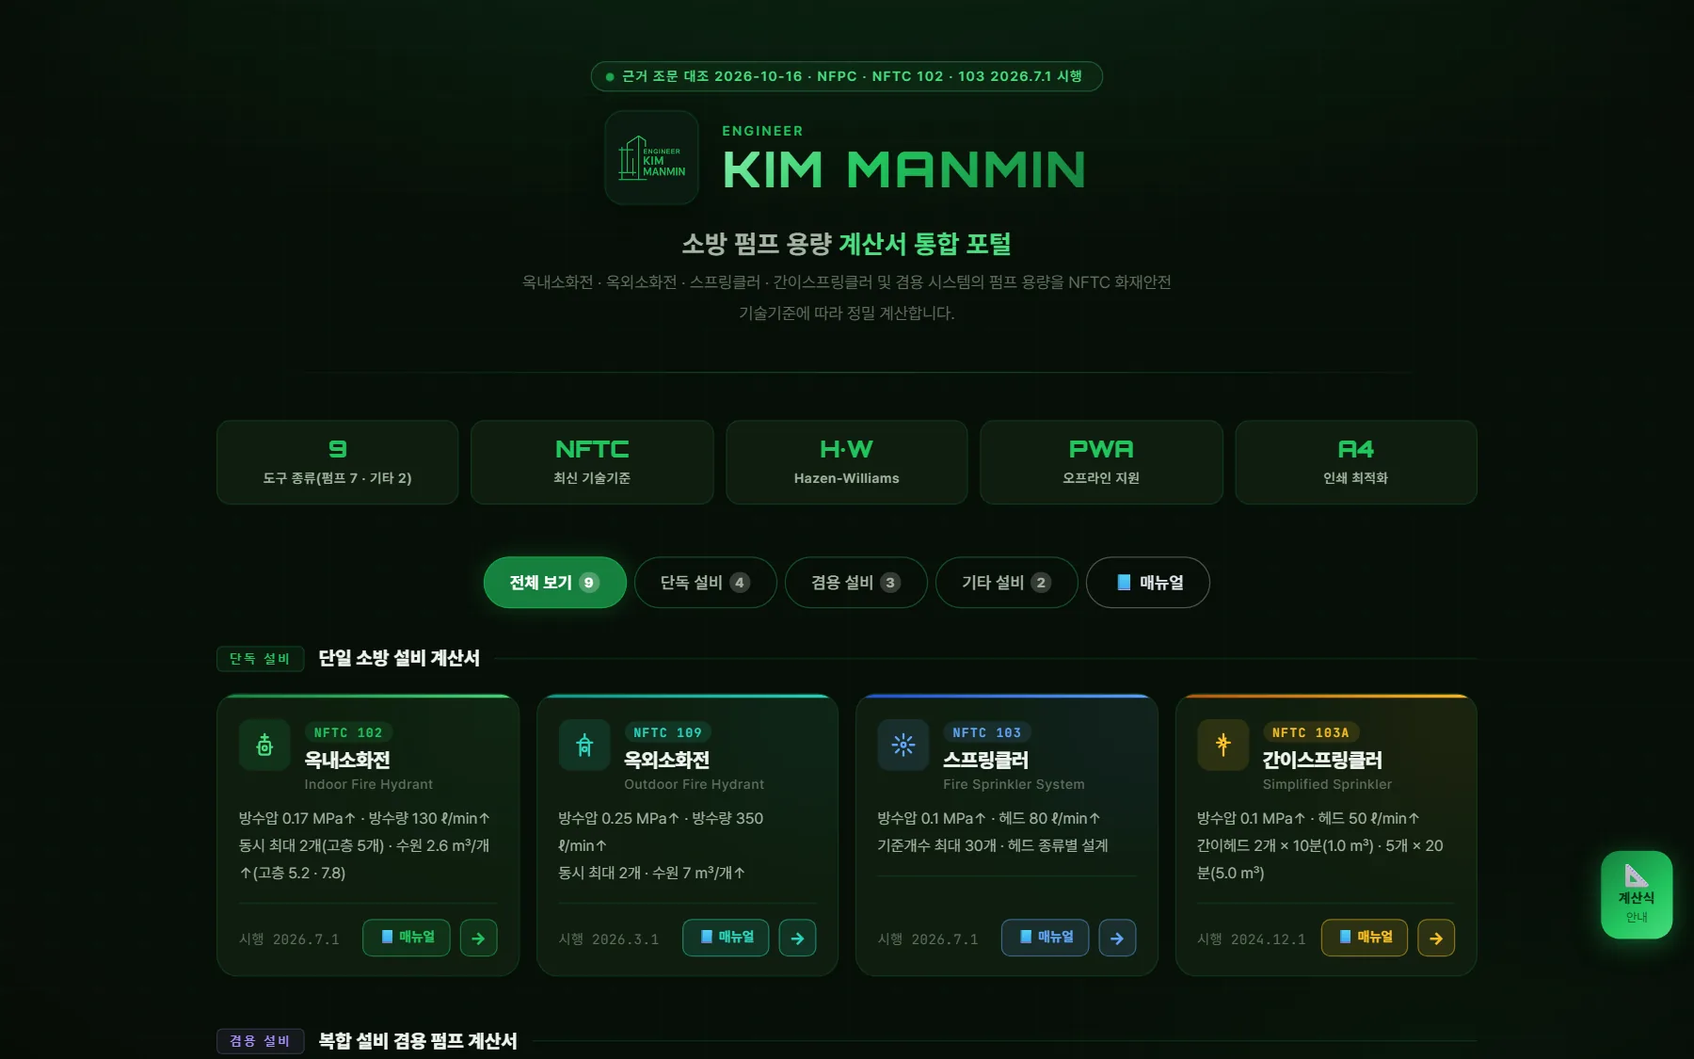
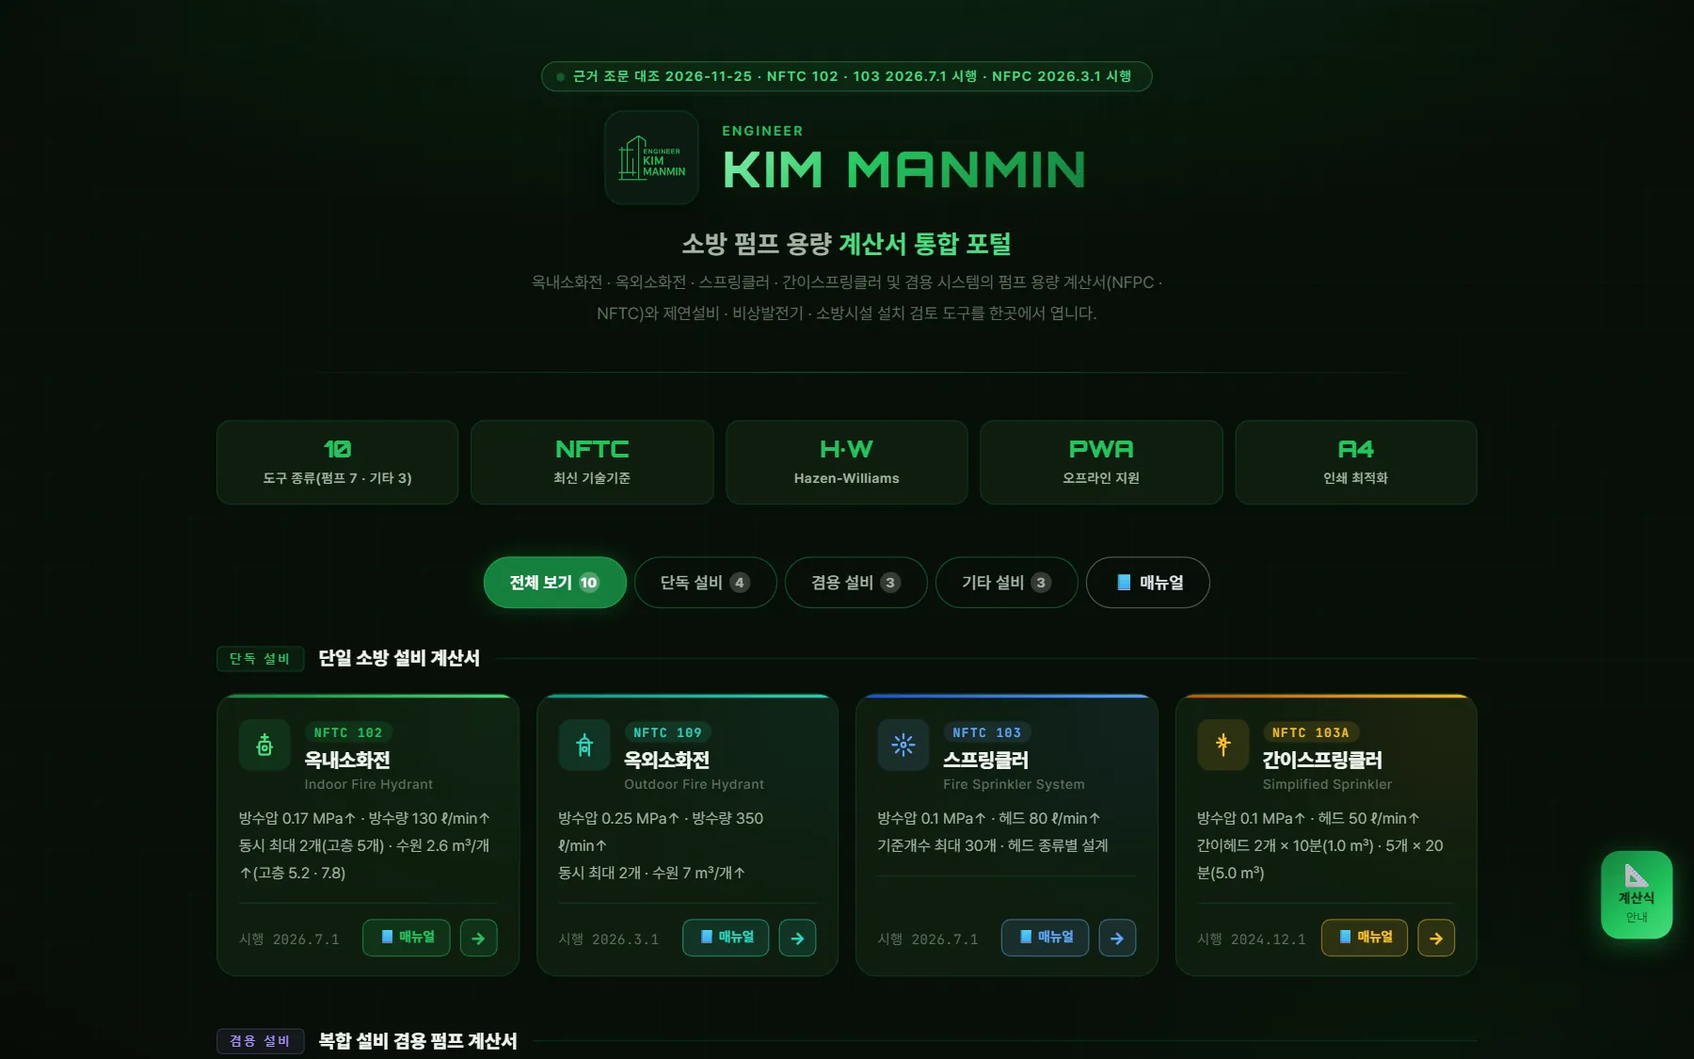
v3.34: 소방 포털 카드 화면 이미지 재촬영(카드 10장 · v5.2.15) · 52 지내력 카드 Ver 6.1.1 (§25-6-115)

Changed region(s): [[0.3111, 0.2489, 0.6844, 0.3111], [0.3111, 0.0622, 0.6844, 0.0933], [0.1867, 0.4044, 0.2178, 0.4356]]

diff --git a/sw.js b/sw.js
@@ -3,7 +3,7 @@
    김만민 건축사 — 대성건축사사무소
    ══════════════════════════════════════════════════════ */
 
-const CACHE_VERSION = 'manmin-v3.33';   /* 2026-11-25 카드 판 소방 포털 5.2.15 · 01 옥내소화전 6.1.4 · 10 비상발전기 6.1.8(기록 누락 정리, §25-6-113) (종전 v3.32) */     /* 2026-11-25 카드 판 35 6.1.5 · 32 6.1.4 · 48 6.1.4 · 33 6.1.6 · 46 6.1.4 · 52 6.1.0(11-22 교차검증 반영분 기록 누락 정리, 건축 4차 §25-6-112) (종전 v3.31) */     /* 2026-11-24 카드 판 30 6.1.5 · 34 6.1.5 · 50 6.1.4(건축 3차 교차검증(2026-11-24, A 등급) 반영, §25-6-111) (종전 v3.30) */     /* 2026-11-24 카드 판 36 6.1.4 · 39 6.1.5 · 31 6.1.6(건축 2차 교차검증(2026-11-24, A 등급) 반영, §25-6-110) (종전 v3.29) */     /* 2026-11-24 카드 판 38 · 43 6.1.4 · 40 6.1.5(건축 1차 교차검증(2026-11-24, A 등급) 반영, §25-6-109) (종전 v3.28) */     /* 2026-11-24 카드 판 44 허가조서 6.1.23(건축법 제61조 개정 메모 · A-09 첫 A 등급 교차검증 · 매뉴얼 v6.1.23, §25-6-108) (종전 v3.27) */     /* 2026-11-24 카드 판 20 · 21 · 22 6.1.7 · 23 · 24 · 27 6.1.6 · 25 6.1.5 · 26 6.1.10(기계 판단 항목 결정(2026-11-24) 반영, §25-6-107) (종전 v3.26) */     /* 2026-11-24 카드 판 23 덕트 6.1.5 · 27 부하 6.1.5 · 28 포털 1.0.23(기계 3차 교차검증(2026-11-24) 반영, §25-6-106) (종전 v3.25) */     /* 2026-11-24 카드 판 25 급탕 6.1.4 · 24 펌프 6.1.5 · 22 냉온수 6.1.6(기계 2차 교차검증(2026-11-24) 반영, §25-6-105) (종전 v3.24) */     /* 2026-11-24 카드 판 26 환기 6.1.9 · 20 우수 6.1.6 · 21 위생 6.1.6(기계 1차 교차검증(2026-11-24) 반영, §25-6-104) (종전 v3.23) */     /* 2026-11-24 카드 판 09 제연 6.1.6(교차검증 판단 필요 3건 추천안 반영, §25-6-103) (종전 v3.22) */     /* 2026-11-24 카드 판 02~07 6.1.4 · 09 제연 6.1.5 · 10 비상발전기 6.1.7 · 11 소방시설 6.1.6(교차검증 권장 · 권고 반영, §25-6-102) (종전 v3.21) */     /* 2026-11-24 카드 판 02 옥외 · 03 스프링클러 · 04 간이 · 05 · 06 · 07 겸용 6.1.3 · 09 제연 6.1.4 · 10 비상발전기 6.1.6 · 11 소방시설 6.1.5 · 소방 포털 5.2.14(소방 전수조사 교차검증 반영, §25-6-101) (종전 v3.20) */     /* 2026-11-23 카드 판 51 토목옹벽 6.1.4 · 구조·토목 포털 1.0.21(교차검증 반영 — 입력 검증 판정 보류 · 캔틸레버 뒷굽 상재하중 저항 제외 · 앵커 조항 1.8, §25-6-100) (종전 v3.19) */     /* 2026-11-20 카드 판 32 해체감리 6.1.3 · 33 상주감리 6.1.5 · 48 안전대가 6.1.3(노임 적용연도 선택 · 매뉴얼 Ver-6.1, §25-6-98) (종전 v3.18) */     /* 2026-11-20 카드 판 44 허가조서 6.1.22(PDF 읽기 보강 · 매뉴얼 개정, §25-6-97) (종전 v3.17) */     /* 2026-11-19 카드 판 35 용도변경 6.1.4 · 44 허가조서 6.1.19(기록 누락 정리 · §25-6-96) (종전 v3.16) */   /* 2026-11-14 웹 소개 카드 화면 이미지 8장 재촬영(44 허가조서 · 26 환기 · 20 우수 · 10 발전기 · 기계 · 구조토목 · 소방 포털 · 법규검토 10월호) (종전 v3.15) */     /* v3.15 2026-11-14 웹 소개 카드 판 표기 최신화 — 포털 4장 세 자리(건축 1.0.31 · 기계 1.0.22 · 구조토목 1.0.20 · 소방 5.2.13) · 제목 · wdate 두 자리 Ver 6.1 체계(36장) (종전 v3.14) */     /* v3.14 2026-11-14 카드 판 44 허가조서 6.1.18(한국건축규정 적용 고시 날짜별 표기, §25-6-93) (종전 v3.13) */     /* 2026-11-13 카드 판 44 허가조서 6.1.17(1112 대조 개선 · 세부 호 자동 선택 · 매뉴얼 개정, §25-6-92) (종전 v3.12) */     /* 2026-11-13 카드 판 44 허가조서 6.1.16(자동 선판정 전체 항목 · 매뉴얼 개정, §25-6-91) (종전 v3.11) */     /* 2026-11-13 카드 판 44 허가조서 6.1.12(조례 별표 9곳 · 천안 건폐율 · 용적률, §25-6-90) (종전 v3.10) */     /* 2026-11-13 카드 판 44 허가조서 6.1.11(html2canvas SRI, §25-6-89) (종전 v3.09) */     /* 2026-11-13 카드 판 44 허가조서 6.1.10(전남 · 충남 조례 51곳, §25-6-88) (종전 v3.08) */     /* 2026-11-12 카드 판 34종 한 단계씩(html2canvas SRI, 정밀검토 B8 · §25-6-87) (종전 v3.07) */   /* 2026-11-12 카드 판 26 환기 6.1.7(KDS 4.4(3) 다중 구역, 정밀검토 KDS 4.4(3) 다중 구역 · §25-6-84) (종전 v3.06) */   /* 2026-11-12 카드 판 2종(26 · 10 — KDS 남은 2건, 정밀검토 KDS 남은 2건 · §25-6-83) (종전 v3.05) */   /* 2026-11-12 카드 판 35종 한 단계씩(CDN 판 통일 · SRI, 정밀검토 C2 · §25-6-82) (종전 v3.04) */   /* 2026-11-12 카드 판 5종(20 · 10 · 26 · 21 · 24 — KDS 원문 대조, 정밀검토 B12 · §25-6-81) (종전 v3.03) */   /* 2026-11-12 카드 판 31종(건물개요 원본 v1.3 · 글꼴 정리) · 키 없이 불러오던 카카오 SDK 제거(정밀검토 C10 · C4 · §25-6-80 · C5) (종전 v3.02) */   /* 2026-11-12 카드 판 14종 — 화면 확대 허용 · 키보드 조작 6종 · 입력값 경고 표시 8종(정밀검토 B17 · B10 · §25-6-78 · 79) (종전 v3.01) */   /* 2026-11-12 카드 판 15종 — 건물개요 공통 원본 v1.2 맞춤 8종 · 새로 넣은 7종(정밀검토 B5 · B6 · §25-6-76 · 77) (종전 v3.00) */   /* 2026-11-12 메타 문구(도구 36종 · 포털 4종) · 경력 자동 계산(11,545일 · 2026-08-15 기준) · 구조화 데이터 주소 전북특별자치도 · sitemap.xml · 카드 판 편의시설 6.1.1 · 성능지표 · 소방시설 · 해체감리 · 안전대가 · 열관류율 6.1.0(정밀검토 B14 · B15 · §25-6-75) (종전 v2.99) */   /* 2026-11-12 카드 Ver 6.1.0 — 냉온수 · 공조덕트 · 부하계산(RTS) · 주차장(기준 표기 정리, 정밀검토 B13 · §25-6-74) (종전 v2.98) */   /* 2026-11-12 지내력 카드 Ver 1.1.2(2026-11-10 배포분 기록, 정밀검토 B1 · §25-6-73) (종전 v2.97) */   /* 2026-11-12 허가조서 카드 Ver 6.1.2(한국건축규정 고시 제2026-360호 병기, §25-6-71) (종전 v2.96) */   /* 2026-11-12 신규 카드: 건축허가조사 및 검사조서 Ver 6.1(허브 A-14 · 쇼츠 · 롱폼 · 매뉴얼) · 건축 통합 포털 13종 Ver 1.0.18 · 환기설비 · 설계하중 6.1.0 · 기계 포털 1.0.13 · 구조·토목 포털 1.0.16 · 링크 미리보기 37종(§25-6-70) (종전 v2.95) */   /* 2026-11-11 카드 Ver — 건축 통합포털 1.0.17 · 구조·토목 통합포털 1.0.15(도구 카드 판 6.1 · 근거표 시행일, §25-6-69) (종전 v2.94) */   /* 2026-11-11 카드 Ver — 일조사선 · 용도변경 · 내진성능 · 편의시설 6.1.0(개정 메모 · 판 6.1, §25-6-68) · 건축 통합포털 1.0.16 정정 (종전 v2.93) */   /* 2026-11-11 포트폴리오 PDF — 소개(건축과 설비를 아우르는 …) 섹션 새 쪽 시작 · 한 쪽 통째(MM-PRINT 홈피판 v1.2, 42 → 43쪽)(§25-6-67) (종전 v2.92) */     /* 2026-11-11 포트폴리오 PDF A4 고밀도 배치 MM-PRINT 홈피판 v1.1(인쇄 글자 80% · 데스크톱 열 수 · 개발웹 카드 좌우 배치 쪽당 2장 · 유튜브 3열 설명 전문 · 75 → 42쪽)(§25-6-66) (종전 v2.91) */     /* 2026-11-10 포트폴리오 PDF A4 인쇄 보정 MM-PRINT 홈피판 v1.0(빈 쪽 · 외톨이 쪽 · 화면 단추 제외 · 남색 전면 · 쪽 번호 n / N · 저장 이름)(§25-6-65) (종전 v2.90) */     /* 2026-11-10 GitHub 아이콘 SVG 경로 잘림 2곳 정정(환기설비 · 건축선 카드 — 콘솔 오류 해소) · 구조·토목 통합 포털 Ver 1.0.14(사용자 매뉴얼 Ver-1.1)(§25-6-64) (종전 v2.89) */   /* 2026-11-10 지내력 카드 Ver 1.1.0(지반조사 보고서 PDF 불러오기 · 공별 지하수위 · 사용자 매뉴얼 Ver-1.1) · 구조·토목 통합 포털 Ver 1.0.13(§25-6-63) (종전 v2.88) */   /* 2026-11-09 신규 카드: N값 지내력 환산 v1.0.1 · 허브 C-03 · YouTube 쇼츠 · 롱폼 · 매뉴얼 단추 · 구조·토목 통합 포털 Ver 1.0.12(5종) · 링크 미리보기 웹 계산 도구 36종(§25-6-62) (종전 v2.87) */   /* 2026-11-09 편의시설 카드 화면 배지 Ver 1.2.2(A4 인쇄 서명란 최하단 보완)(§25-6-61) (종전 v2.86) */   /* 2026-11-09 건축 통합 포털 카드 Ver 1.0.15(사용자 매뉴얼 Ver-1.1 · 계산서 12종)(§25-6-60) (종전 v2.85) */   /* 2026-11-09 건축 시리즈 요약 배너 Released · Manual 12→14(계산서 12 · 법규검토 · 통합 포털) (종전 v2.84) */   /* 2026-11-09 편의시설 Ver 1.2(증축 적용 범위 · 사용자 매뉴얼) 카드 · YouTube 쇼츠 · 롱폼 · 매뉴얼 단추 · 건축 통합 포털 Ver 1.0.14(§25-6-59) (종전 v2.83) */   /* 2026-11-09 편의시설 Ver 1.1(세부기준 그림 18) · 건축 통합 포털 Ver 1.0.13 카드 숫자(인허가 5종 · 12종) · 링크 미리보기 웹 계산 도구 35종(§25-6-57) (종전 v2.82) */   /* 2026-11-09 신규 카드: 장애인 편의시설 설치기준 검토 v1.0.0 · 허브 A-13 · 건축 통합 포털 12종(§25-6-56) (종전 v2.81) */   /* 2026-11-09 안전점검등 대가 카드 YouTube 쇼츠 · 롱폼 단추 · 건축 통합 포털 카드 11종(§25-6-55) (종전 v2.80) */ /* 2026-11-09 안전점검등 대가 카드 Ver 1.0.4 · 사용자 매뉴얼 버튼(§25-6-54) (종전 v2.79) */   /* 2026-11-09 안전점검등 대가 카드 Ver 1.0.3 · 설치안내 공유판 안전대가 추가(§25-6-53) (종전 v2.78) */ /* 2026-11-09 신규 카드: 안전점검등 대가 산출기(건축물) v1.0.2 · 해체감리 시리즈 뒤(§25-6-53) (종전 v2.77) */
+const CACHE_VERSION = 'manmin-v3.34';   /* 2026-11-25 소방 포털 카드 화면 이미지 재촬영(카드 10장 · v5.2.15) · 52 지내력 카드 6.1.1(§25-6-115) (종전 v3.33) */     /* 2026-11-25 카드 판 소방 포털 5.2.15 · 01 옥내소화전 6.1.4 · 10 비상발전기 6.1.8(기록 누락 정리, §25-6-113) (종전 v3.32) */     /* 2026-11-25 카드 판 35 6.1.5 · 32 6.1.4 · 48 6.1.4 · 33 6.1.6 · 46 6.1.4 · 52 6.1.0(11-22 교차검증 반영분 기록 누락 정리, 건축 4차 §25-6-112) (종전 v3.31) */     /* 2026-11-24 카드 판 30 6.1.5 · 34 6.1.5 · 50 6.1.4(건축 3차 교차검증(2026-11-24, A 등급) 반영, §25-6-111) (종전 v3.30) */     /* 2026-11-24 카드 판 36 6.1.4 · 39 6.1.5 · 31 6.1.6(건축 2차 교차검증(2026-11-24, A 등급) 반영, §25-6-110) (종전 v3.29) */     /* 2026-11-24 카드 판 38 · 43 6.1.4 · 40 6.1.5(건축 1차 교차검증(2026-11-24, A 등급) 반영, §25-6-109) (종전 v3.28) */     /* 2026-11-24 카드 판 44 허가조서 6.1.23(건축법 제61조 개정 메모 · A-09 첫 A 등급 교차검증 · 매뉴얼 v6.1.23, §25-6-108) (종전 v3.27) */     /* 2026-11-24 카드 판 20 · 21 · 22 6.1.7 · 23 · 24 · 27 6.1.6 · 25 6.1.5 · 26 6.1.10(기계 판단 항목 결정(2026-11-24) 반영, §25-6-107) (종전 v3.26) */     /* 2026-11-24 카드 판 23 덕트 6.1.5 · 27 부하 6.1.5 · 28 포털 1.0.23(기계 3차 교차검증(2026-11-24) 반영, §25-6-106) (종전 v3.25) */     /* 2026-11-24 카드 판 25 급탕 6.1.4 · 24 펌프 6.1.5 · 22 냉온수 6.1.6(기계 2차 교차검증(2026-11-24) 반영, §25-6-105) (종전 v3.24) */     /* 2026-11-24 카드 판 26 환기 6.1.9 · 20 우수 6.1.6 · 21 위생 6.1.6(기계 1차 교차검증(2026-11-24) 반영, §25-6-104) (종전 v3.23) */     /* 2026-11-24 카드 판 09 제연 6.1.6(교차검증 판단 필요 3건 추천안 반영, §25-6-103) (종전 v3.22) */     /* 2026-11-24 카드 판 02~07 6.1.4 · 09 제연 6.1.5 · 10 비상발전기 6.1.7 · 11 소방시설 6.1.6(교차검증 권장 · 권고 반영, §25-6-102) (종전 v3.21) */     /* 2026-11-24 카드 판 02 옥외 · 03 스프링클러 · 04 간이 · 05 · 06 · 07 겸용 6.1.3 · 09 제연 6.1.4 · 10 비상발전기 6.1.6 · 11 소방시설 6.1.5 · 소방 포털 5.2.14(소방 전수조사 교차검증 반영, §25-6-101) (종전 v3.20) */     /* 2026-11-23 카드 판 51 토목옹벽 6.1.4 · 구조·토목 포털 1.0.21(교차검증 반영 — 입력 검증 판정 보류 · 캔틸레버 뒷굽 상재하중 저항 제외 · 앵커 조항 1.8, §25-6-100) (종전 v3.19) */     /* 2026-11-20 카드 판 32 해체감리 6.1.3 · 33 상주감리 6.1.5 · 48 안전대가 6.1.3(노임 적용연도 선택 · 매뉴얼 Ver-6.1, §25-6-98) (종전 v3.18) */     /* 2026-11-20 카드 판 44 허가조서 6.1.22(PDF 읽기 보강 · 매뉴얼 개정, §25-6-97) (종전 v3.17) */     /* 2026-11-19 카드 판 35 용도변경 6.1.4 · 44 허가조서 6.1.19(기록 누락 정리 · §25-6-96) (종전 v3.16) */   /* 2026-11-14 웹 소개 카드 화면 이미지 8장 재촬영(44 허가조서 · 26 환기 · 20 우수 · 10 발전기 · 기계 · 구조토목 · 소방 포털 · 법규검토 10월호) (종전 v3.15) */     /* v3.15 2026-11-14 웹 소개 카드 판 표기 최신화 — 포털 4장 세 자리(건축 1.0.31 · 기계 1.0.22 · 구조토목 1.0.20 · 소방 5.2.13) · 제목 · wdate 두 자리 Ver 6.1 체계(36장) (종전 v3.14) */     /* v3.14 2026-11-14 카드 판 44 허가조서 6.1.18(한국건축규정 적용 고시 날짜별 표기, §25-6-93) (종전 v3.13) */     /* 2026-11-13 카드 판 44 허가조서 6.1.17(1112 대조 개선 · 세부 호 자동 선택 · 매뉴얼 개정, §25-6-92) (종전 v3.12) */     /* 2026-11-13 카드 판 44 허가조서 6.1.16(자동 선판정 전체 항목 · 매뉴얼 개정, §25-6-91) (종전 v3.11) */     /* 2026-11-13 카드 판 44 허가조서 6.1.12(조례 별표 9곳 · 천안 건폐율 · 용적률, §25-6-90) (종전 v3.10) */     /* 2026-11-13 카드 판 44 허가조서 6.1.11(html2canvas SRI, §25-6-89) (종전 v3.09) */     /* 2026-11-13 카드 판 44 허가조서 6.1.10(전남 · 충남 조례 51곳, §25-6-88) (종전 v3.08) */     /* 2026-11-12 카드 판 34종 한 단계씩(html2canvas SRI, 정밀검토 B8 · §25-6-87) (종전 v3.07) */   /* 2026-11-12 카드 판 26 환기 6.1.7(KDS 4.4(3) 다중 구역, 정밀검토 KDS 4.4(3) 다중 구역 · §25-6-84) (종전 v3.06) */   /* 2026-11-12 카드 판 2종(26 · 10 — KDS 남은 2건, 정밀검토 KDS 남은 2건 · §25-6-83) (종전 v3.05) */   /* 2026-11-12 카드 판 35종 한 단계씩(CDN 판 통일 · SRI, 정밀검토 C2 · §25-6-82) (종전 v3.04) */   /* 2026-11-12 카드 판 5종(20 · 10 · 26 · 21 · 24 — KDS 원문 대조, 정밀검토 B12 · §25-6-81) (종전 v3.03) */   /* 2026-11-12 카드 판 31종(건물개요 원본 v1.3 · 글꼴 정리) · 키 없이 불러오던 카카오 SDK 제거(정밀검토 C10 · C4 · §25-6-80 · C5) (종전 v3.02) */   /* 2026-11-12 카드 판 14종 — 화면 확대 허용 · 키보드 조작 6종 · 입력값 경고 표시 8종(정밀검토 B17 · B10 · §25-6-78 · 79) (종전 v3.01) */   /* 2026-11-12 카드 판 15종 — 건물개요 공통 원본 v1.2 맞춤 8종 · 새로 넣은 7종(정밀검토 B5 · B6 · §25-6-76 · 77) (종전 v3.00) */   /* 2026-11-12 메타 문구(도구 36종 · 포털 4종) · 경력 자동 계산(11,545일 · 2026-08-15 기준) · 구조화 데이터 주소 전북특별자치도 · sitemap.xml · 카드 판 편의시설 6.1.1 · 성능지표 · 소방시설 · 해체감리 · 안전대가 · 열관류율 6.1.0(정밀검토 B14 · B15 · §25-6-75) (종전 v2.99) */   /* 2026-11-12 카드 Ver 6.1.0 — 냉온수 · 공조덕트 · 부하계산(RTS) · 주차장(기준 표기 정리, 정밀검토 B13 · §25-6-74) (종전 v2.98) */   /* 2026-11-12 지내력 카드 Ver 1.1.2(2026-11-10 배포분 기록, 정밀검토 B1 · §25-6-73) (종전 v2.97) */   /* 2026-11-12 허가조서 카드 Ver 6.1.2(한국건축규정 고시 제2026-360호 병기, §25-6-71) (종전 v2.96) */   /* 2026-11-12 신규 카드: 건축허가조사 및 검사조서 Ver 6.1(허브 A-14 · 쇼츠 · 롱폼 · 매뉴얼) · 건축 통합 포털 13종 Ver 1.0.18 · 환기설비 · 설계하중 6.1.0 · 기계 포털 1.0.13 · 구조·토목 포털 1.0.16 · 링크 미리보기 37종(§25-6-70) (종전 v2.95) */   /* 2026-11-11 카드 Ver — 건축 통합포털 1.0.17 · 구조·토목 통합포털 1.0.15(도구 카드 판 6.1 · 근거표 시행일, §25-6-69) (종전 v2.94) */   /* 2026-11-11 카드 Ver — 일조사선 · 용도변경 · 내진성능 · 편의시설 6.1.0(개정 메모 · 판 6.1, §25-6-68) · 건축 통합포털 1.0.16 정정 (종전 v2.93) */   /* 2026-11-11 포트폴리오 PDF — 소개(건축과 설비를 아우르는 …) 섹션 새 쪽 시작 · 한 쪽 통째(MM-PRINT 홈피판 v1.2, 42 → 43쪽)(§25-6-67) (종전 v2.92) */     /* 2026-11-11 포트폴리오 PDF A4 고밀도 배치 MM-PRINT 홈피판 v1.1(인쇄 글자 80% · 데스크톱 열 수 · 개발웹 카드 좌우 배치 쪽당 2장 · 유튜브 3열 설명 전문 · 75 → 42쪽)(§25-6-66) (종전 v2.91) */     /* 2026-11-10 포트폴리오 PDF A4 인쇄 보정 MM-PRINT 홈피판 v1.0(빈 쪽 · 외톨이 쪽 · 화면 단추 제외 · 남색 전면 · 쪽 번호 n / N · 저장 이름)(§25-6-65) (종전 v2.90) */     /* 2026-11-10 GitHub 아이콘 SVG 경로 잘림 2곳 정정(환기설비 · 건축선 카드 — 콘솔 오류 해소) · 구조·토목 통합 포털 Ver 1.0.14(사용자 매뉴얼 Ver-1.1)(§25-6-64) (종전 v2.89) */   /* 2026-11-10 지내력 카드 Ver 1.1.0(지반조사 보고서 PDF 불러오기 · 공별 지하수위 · 사용자 매뉴얼 Ver-1.1) · 구조·토목 통합 포털 Ver 1.0.13(§25-6-63) (종전 v2.88) */   /* 2026-11-09 신규 카드: N값 지내력 환산 v1.0.1 · 허브 C-03 · YouTube 쇼츠 · 롱폼 · 매뉴얼 단추 · 구조·토목 통합 포털 Ver 1.0.12(5종) · 링크 미리보기 웹 계산 도구 36종(§25-6-62) (종전 v2.87) */   /* 2026-11-09 편의시설 카드 화면 배지 Ver 1.2.2(A4 인쇄 서명란 최하단 보완)(§25-6-61) (종전 v2.86) */   /* 2026-11-09 건축 통합 포털 카드 Ver 1.0.15(사용자 매뉴얼 Ver-1.1 · 계산서 12종)(§25-6-60) (종전 v2.85) */   /* 2026-11-09 건축 시리즈 요약 배너 Released · Manual 12→14(계산서 12 · 법규검토 · 통합 포털) (종전 v2.84) */   /* 2026-11-09 편의시설 Ver 1.2(증축 적용 범위 · 사용자 매뉴얼) 카드 · YouTube 쇼츠 · 롱폼 · 매뉴얼 단추 · 건축 통합 포털 Ver 1.0.14(§25-6-59) (종전 v2.83) */   /* 2026-11-09 편의시설 Ver 1.1(세부기준 그림 18) · 건축 통합 포털 Ver 1.0.13 카드 숫자(인허가 5종 · 12종) · 링크 미리보기 웹 계산 도구 35종(§25-6-57) (종전 v2.82) */   /* 2026-11-09 신규 카드: 장애인 편의시설 설치기준 검토 v1.0.0 · 허브 A-13 · 건축 통합 포털 12종(§25-6-56) (종전 v2.81) */   /* 2026-11-09 안전점검등 대가 카드 YouTube 쇼츠 · 롱폼 단추 · 건축 통합 포털 카드 11종(§25-6-55) (종전 v2.80) */ /* 2026-11-09 안전점검등 대가 카드 Ver 1.0.4 · 사용자 매뉴얼 버튼(§25-6-54) (종전 v2.79) */   /* 2026-11-09 안전점검등 대가 카드 Ver 1.0.3 · 설치안내 공유판 안전대가 추가(§25-6-53) (종전 v2.78) */ /* 2026-11-09 신규 카드: 안전점검등 대가 산출기(건축물) v1.0.2 · 해체감리 시리즈 뒤(§25-6-53) (종전 v2.77) */
 /* §17-1 — 같은 origin(manminkim-eng.github.io)에 40여 개 도구 캐시가 있다. 홈페이지 캐시명은 manmin-v<숫자> 계열만이다
    (manmin-hub- · manmin-mech-portal- · manmin-arch-portal- 등 다른 도구 접두어는 제외) */
 const mmOwn = (k) => /^manmin-v\d/.test(k);

diff --git a/index.html b/index.html
@@ -6784,13 +6784,13 @@ window.addEventListener('afterprint',function(){if(t0!==null){document.title=t0;
             <div style="border:1px solid rgba(45,212,191,.2);border-radius:4px;overflow:hidden;background:var(--bg-deep);position:relative;cursor:pointer;"
                  onclick="openWcImg('./images/지내력.webp', 'N값 지내력 환산 시스템 MANMIN Ver6.1', 'https://manminkim-eng.github.io/Soil-Bearing-Capacity/')">
               <img src="./images/지내력.webp"
-                   alt="N값 지내력 환산 시스템 전체 화면 — MANMIN Ver 6.1.0"
+                   alt="N값 지내력 환산 시스템 전체 화면 — MANMIN Ver 6.1.1"
                    style="width:100%;height:auto;display:block;object-fit:cover;transition:transform .3s;"
                    onmouseover="this.style.transform='scale(1.02)'"
                    onmouseout="this.style.transform='scale(1)'" loading="lazy" decoding="async" width="1800" height="1125"/>
               <div style="position:absolute;top:8px;right:8px;font-family:var(--f-mono);font-size:.58rem;
                           background:rgba(9,13,24,.85);color:#2dd4bf;border:1px solid rgba(45,212,191,.3);
-                          padding:2px 7px;letter-spacing:.06em;">Ver 6.1.0</div>
+                          padding:2px 7px;letter-spacing:.06em;">Ver 6.1.1</div>
             </div>
             <p style="font-size:.82rem;color:var(--t-sub);line-height:1.72;">첫 화면 — 예제 ① BH-1 사질토 · 독립기초 2.0 × 2.0 m · 근입 1.5 m 입력 → 대표 N₆₀ 11.85 · φ 26.9° · 지지력 기준 238.1 · 침하 기준 235.2 → 채택 허용지지력 235.2 kN/㎡ · 접지압 150 OK.</p>
           </div>
